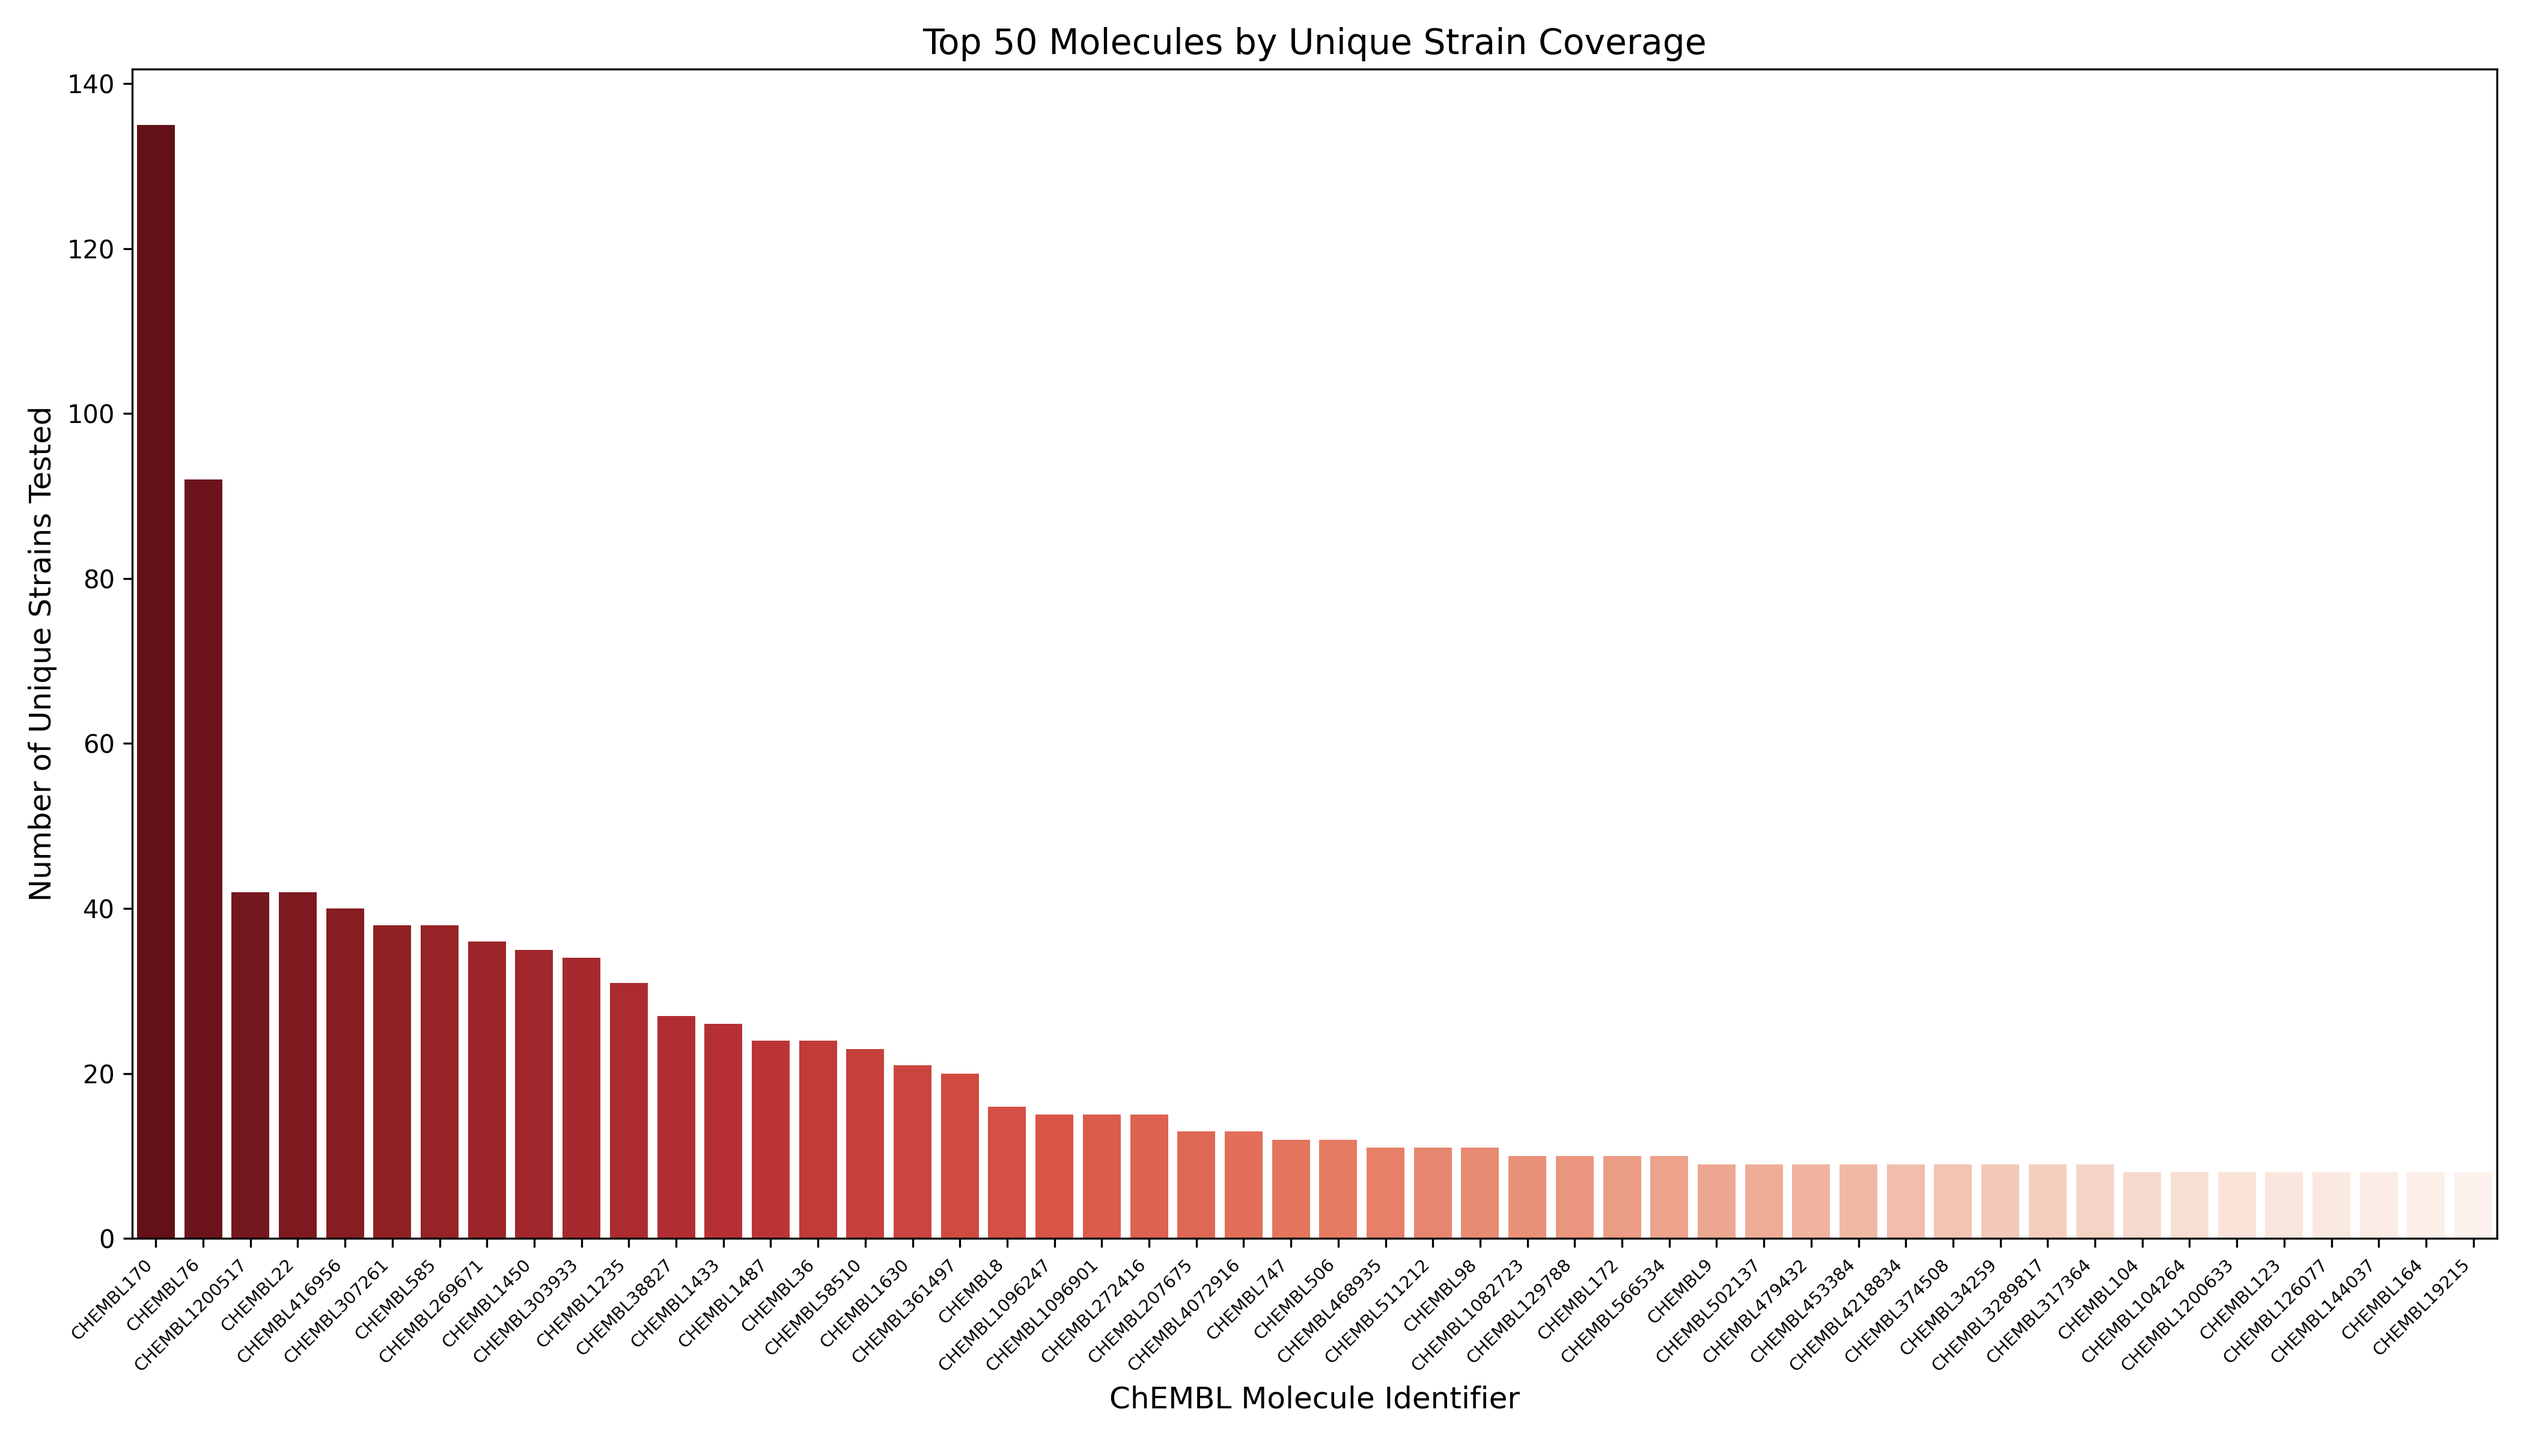
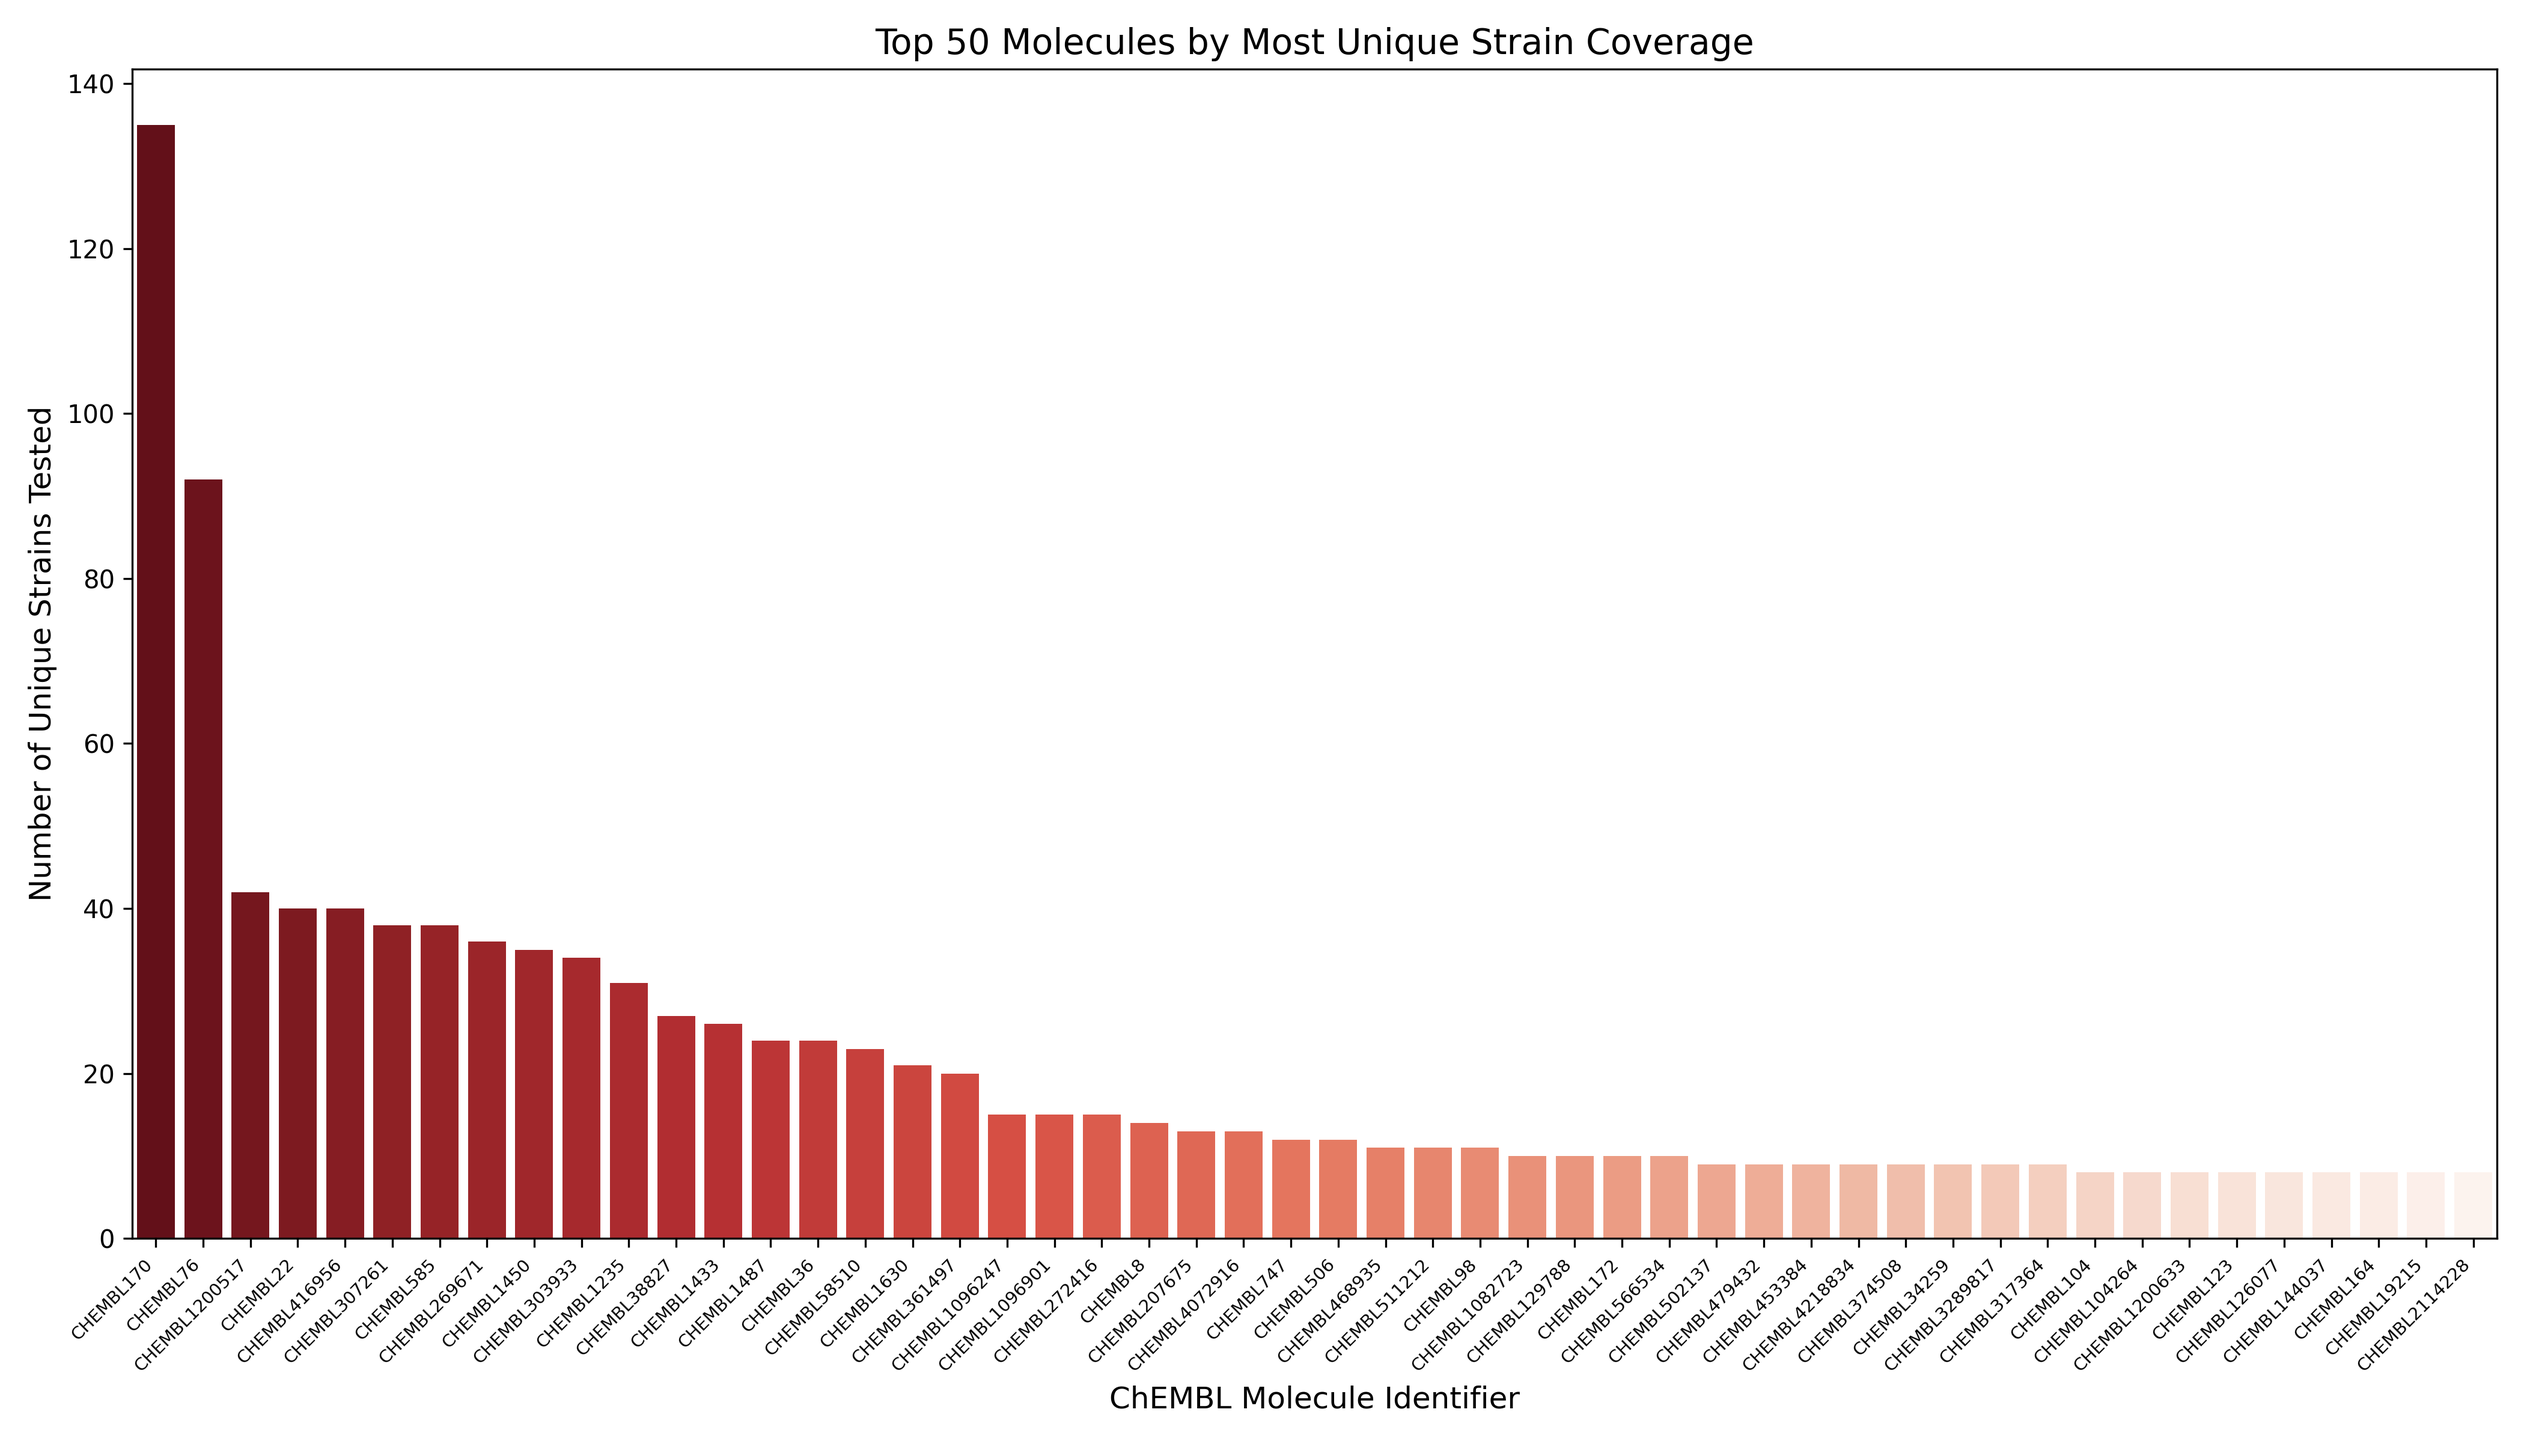
updating histograms with new data

Changed region(s): [[0.655, 0.875, 0.9669, 0.9375], [0.3431, 0.0, 0.6862, 0.0625], [0.3743, 0.875, 0.4679, 0.9375]]

diff --git a/visuals/viz_scripts/hist.py b/visuals/viz_scripts/hist.py
@@ -78,7 +78,7 @@ sns.barplot(data=unique_strain_counts, x='Chemical', y='UniqueStrains', palette=
 plt.xticks(rotation=45, ha='right', fontsize=7)
 plt.xlabel('ChEMBL Molecule Identifier', fontsize=12)
 plt.ylabel('Number of Unique Strains Tested', fontsize=12)
-plt.title('Top 50 Molecules by Unique Strain Coverage', fontsize=14)
+plt.title('Top 50 Molecules by Most Unique Strain Coverage', fontsize=14)
 plt.tight_layout()
 
 # Save and display
